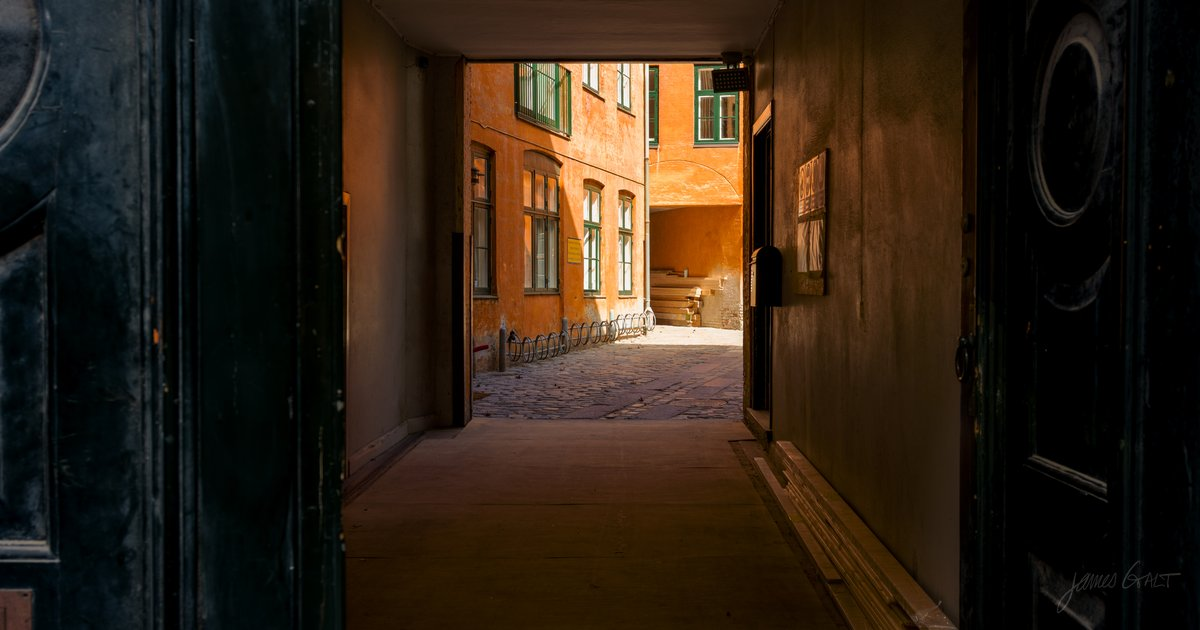
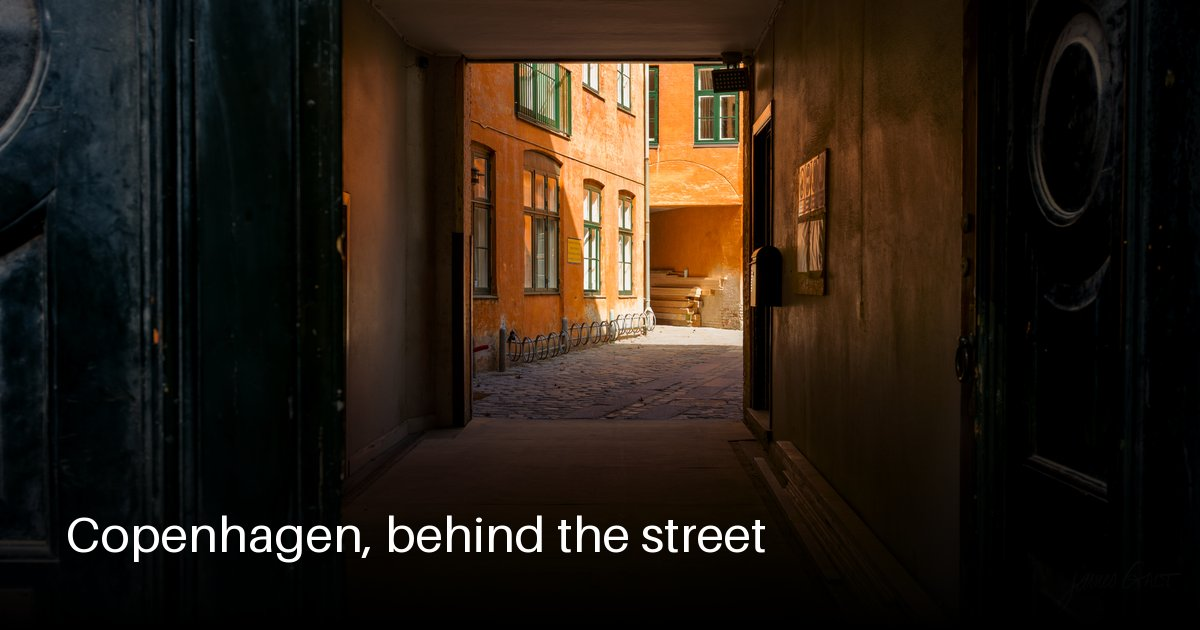
refresh website

diff --git a/index.html b/index.html
@@ -8,7 +8,7 @@
 
 <meta property="og:title" content="James Galt">
 <meta property="og:description" content="Photographer and developer. HDR work from France, Japan, and East Africa.">
-<meta property="og:image" content="https://www.jamesgalt.photo/journal/copenhagen-passages/og.jpg"><meta property="og:type" content="website">
+<meta property="og:image" content="https://www.jamesgalt.photo/journal/copenhagen-passages/cover.jpg"><meta property="og:type" content="website">
 <meta property="og:url" content="https://www.jamesgalt.photo/">
 <meta name="twitter:card" content="summary_large_image">
 <link rel="icon" href="/favicon.png" sizes="any">
@@ -93,7 +93,7 @@ footer a{color:var(--accent)}
 <body>
 
 <header class="hero">
-<div class="hero-bg" style="background-image:url('journal/copenhagen-passages/og.jpg')"></div>  <div class="hero-inner">
+<div class="hero-bg" style="background-image:url('journal/copenhagen-passages/cover.jpg')"></div>  <div class="hero-inner">
     <h1>James Galt</h1>
     <p>Photographer and developer. HDR work from France, Japan, and East Africa.</p>
     <a class="bsky" href="https://bsky.app/profile/jamesgalt">Follow on Bluesky →</a>
@@ -104,7 +104,7 @@ footer a{color:var(--accent)}
 
   <section class="cards">
     <a class="card" href="/journal/">
-<img class="card-thumb" src="journal/copenhagen-passages/og.jpg" alt="Copenhagen, behind the street" loading="lazy">      <div class="card-body">
+<img class="card-thumb" src="journal/copenhagen-passages/cover.jpg" alt="Copenhagen, behind the street" loading="lazy">      <div class="card-body">
         <span class="eyebrow">Photo journal</span>
         <h2>Journal</h2>
 <p>Latest: Copenhagen, behind the street · 20 June 2026</p>
@@ -135,7 +135,7 @@ footer a{color:var(--accent)}
     <h2 class="section-title">Recent from the journal</h2>
     <div class="recent">
       <a href="journal/copenhagen-passages/">
-        <img src="journal/copenhagen-passages/og.jpg" alt="Copenhagen, behind the street" loading="lazy">
+        <img src="journal/copenhagen-passages/cover.jpg" alt="Copenhagen, behind the street" loading="lazy">
         <div class="rmeta">Copenhagen, behind the street<time>20 June 2026</time></div>
       </a>
     </div>

diff --git a/journal/copenhagen-passages/index.html b/journal/copenhagen-passages/index.html
@@ -14,6 +14,9 @@
 <meta name="twitter:card" content="summary_large_image">
 <meta property="article:published_time" content="2026-06-20T09:00:00+02:00">
 <meta property="article:author" content="James Galt">
+<link rel="icon" href="/favicon.png" sizes="any">
+<link rel="apple-touch-icon" href="/apple-touch-icon.png">
+<link rel="alternate" type="application/atom+xml" title="Journal" href="/journal/feed.xml">
 
 <style>
 :root{
@@ -76,7 +79,7 @@ figcaption{margin-top:8px;}
 <p>The Round Tower is a ramp rather than a staircase, built wide and gentle so a horse and cart could climb it. Walking up, the light comes from arched windows in the outer wall and the whitewash carries it around the curve. The Glyptotek's Winter Garden closes the set: a glass dome over the palms, warm even on a grey morning.</p></div>
 
   <footer class="article-footer">
-    <span>Tags: #architecture #copenhagen #denmark #rundetarn #glyptotek</span>
+    <span>Tags: <a href="/journal/tag/architecture/">#architecture</a> <a href="/journal/tag/copenhagen/">#copenhagen</a> <a href="/journal/tag/denmark/">#denmark</a> <a href="/journal/tag/rundetarn/">#rundetarn</a> <a href="/journal/tag/glyptotek/">#glyptotek</a></span>
     <a href="/journal/">← All photos</a>
   </footer>
 </article>